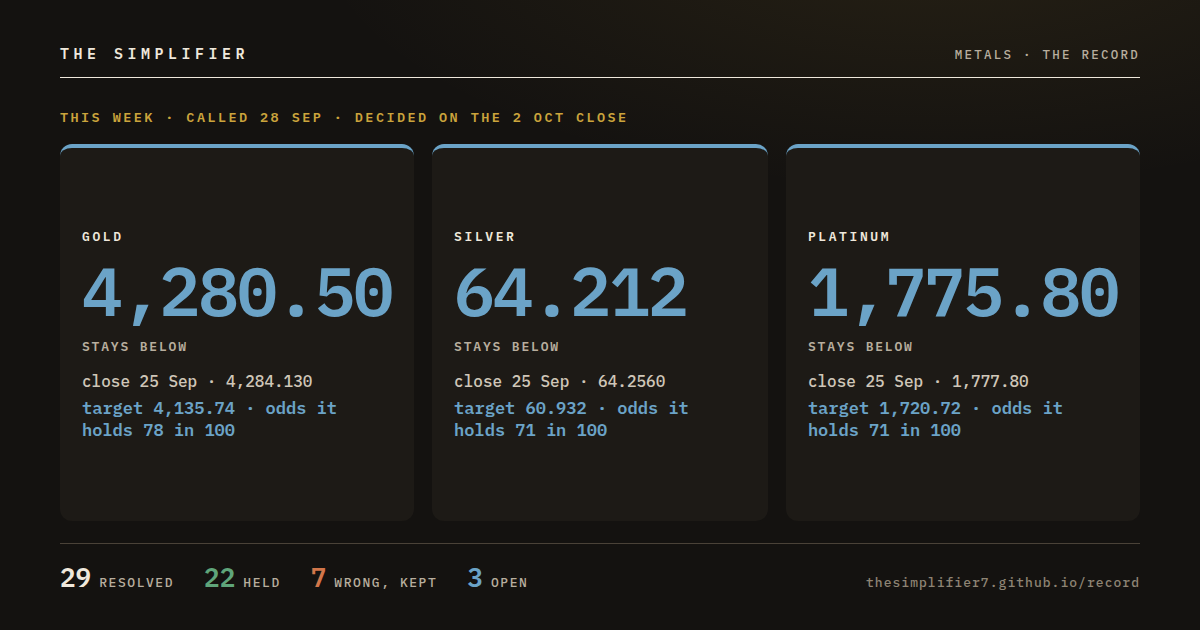
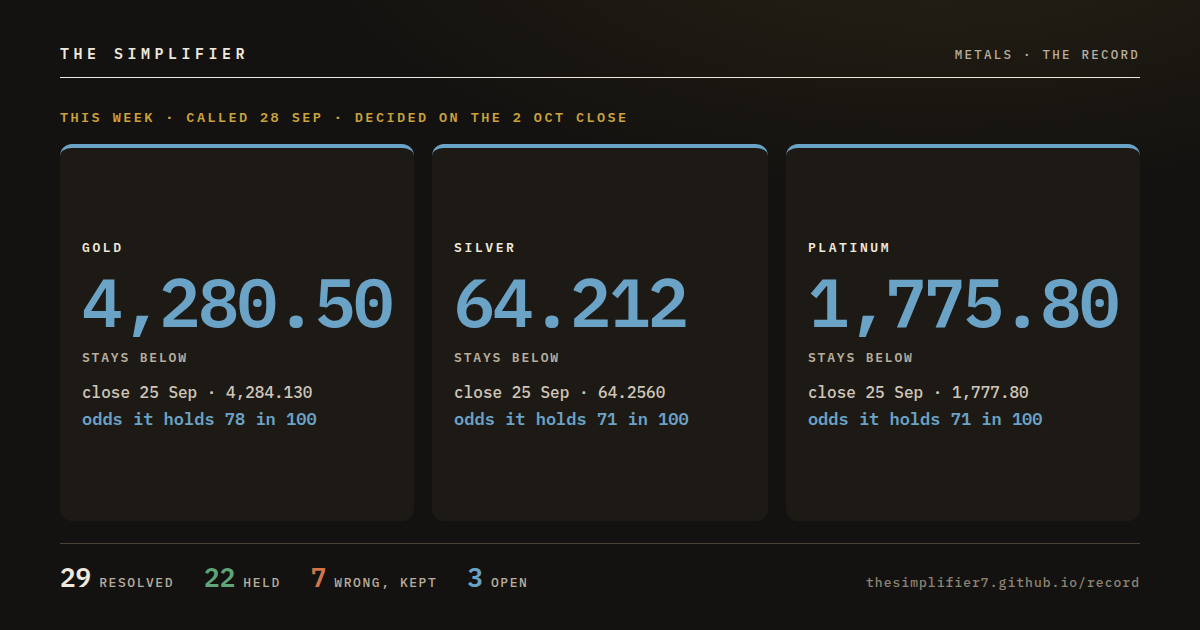
Add files via upload

Changed region(s): [[0.0617, 0.3619, 0.3392, 0.6937], [0.6475, 0.3619, 0.9558, 0.6937], [0.37, 0.3619, 0.5858, 0.6937]]

diff --git a/week_card.html b/week_card.html
@@ -26,8 +26,8 @@ body{background:#141210;background-image:radial-gradient(900px 380px at 78% -12%
 <div class="mast"><b>THE SIMPLIFIER</b><span>Metals · the record</span></div>
 <div class="k">This week · called 28 Sep · decided on the 2 Oct close</div>
 <div class="cols"><div class="c" style="border-top-color:#6BA3C7"><div class="m">Gold</div><div class="lv" style="color:#6BA3C7">4,280.50</div>
-    <div class="l2" style="color:#B8AE9E">stays below</div><div class="l3">close 25 Sep · 4,284.130</div><div class="l4" style="color:#6BA3C7">target 4,135.74 · odds it holds 78 in 100</div></div><div class="c" style="border-top-color:#6BA3C7"><div class="m">Silver</div><div class="lv" style="color:#6BA3C7">64.212</div>
-    <div class="l2" style="color:#B8AE9E">stays below</div><div class="l3">close 25 Sep · 64.2560</div><div class="l4" style="color:#6BA3C7">target 60.932 · odds it holds 71 in 100</div></div><div class="c" style="border-top-color:#6BA3C7"><div class="m">Platinum</div><div class="lv" style="color:#6BA3C7">1,775.80</div>
-    <div class="l2" style="color:#B8AE9E">stays below</div><div class="l3">close 25 Sep · 1,777.80</div><div class="l4" style="color:#6BA3C7">target 1,720.72 · odds it holds 71 in 100</div></div></div>
+    <div class="l2" style="color:#B8AE9E">stays below</div><div class="l3">close 25 Sep · 4,284.130</div><div class="l4" style="color:#6BA3C7">odds it holds 78 in 100</div></div><div class="c" style="border-top-color:#6BA3C7"><div class="m">Silver</div><div class="lv" style="color:#6BA3C7">64.212</div>
+    <div class="l2" style="color:#B8AE9E">stays below</div><div class="l3">close 25 Sep · 64.2560</div><div class="l4" style="color:#6BA3C7">odds it holds 71 in 100</div></div><div class="c" style="border-top-color:#6BA3C7"><div class="m">Platinum</div><div class="lv" style="color:#6BA3C7">1,775.80</div>
+    <div class="l2" style="color:#B8AE9E">stays below</div><div class="l3">close 25 Sep · 1,777.80</div><div class="l4" style="color:#6BA3C7">odds it holds 71 in 100</div></div></div>
 <div class="count"><span><b style="color:#EFE8DC">29</b>resolved</span><span><b style="color:#5FA57A">22</b>held</span><span><b style="color:#D2764A">7</b>wrong, kept</span><span><b style="color:#6BA3C7">3</b>open</span><span class="url">thesimplifier7.github.io/record</span></div>
 </body></html>

diff --git a/make_email.js b/make_email.js
@@ -58,10 +58,10 @@ if (kind === "monday") {
   subject = `The Monday Level · week of ${long(date)}`;
   lede = `${count(set.length, "call", "calls")}, made ${long(date)} and decided on the weekly close of ${long(fri)}. The same calls that go on the record, where they stay whatever the close does.`;  /* WAS: rows, named, graded, rows */
   for (const r of set) {
-    if (r.grammar) blocks.push({ head: `${r.metal.toUpperCase()} · ${r.line || r.level}`, lines: [sideLine(r), `Target ${r.room} · The odds it holds, at the time of the call: ${r.odds} in 100`, `Wrong on ${r.kill}`]  /* WAS: `Room ${r.room} · Odds at naming ${r.odds} in 100`, `Kill: ${r.kill}` */, link: r.url });
+    if (r.grammar) blocks.push({ head: `${r.metal.toUpperCase()} · ${r.line || r.level}`, lines: [sideLine(r), `The odds it holds, at the time of the call: ${r.odds} in 100`, `Wrong on ${r.kill}`]  /* WAS, same night: `Target ${r.room} · The odds it holds, ...` */  /* WAS: `Room ${r.room} · Odds at naming ${r.odds} in 100`, `Kill: ${r.kill}` */, link: r.url });
     else blocks.push({ head: `${r.metal.toUpperCase()} · ${r.level}`, lines: [r.call, `Kill: ${r.kill}`], link: r.url });
   }
-  if (set.some(r => r.grammar)) tail.push("On Friday each call takes one word. HIT, the week closed at or past the target. HELD, on the right side of the line, short of the target. WRONG, a weekly close through the line.");  /* WAS: tail.push("On Friday each row takes one word. HIT, the week closed at or through the room. HELD, on the called side of the line, short of the room. WRONG, through the line."); */
+  if (set.some(r => r.grammar)) tail.push("On Friday each call takes one word. HELD, the week closed on the called side of the line. HIT, it closed beyond the other edge of the week's first 16 hours as well. WRONG, it closed through the line.");  /* WAS, same night: the target wording */  /* WAS: tail.push("On Friday each row takes one word. HIT, the week closed at or through the room. HELD, on the called side of the line, short of the room. WRONG, through the line."); */
 } else {
   const set = rows.filter(r => r.graded_on_close === date).sort(byMetal);
   if (!set.length) { console.error("no row graded on the close of " + date); process.exit(1); }

diff --git a/make_week_card.js b/make_week_card.js
@@ -59,7 +59,8 @@ const cols = rows.map(r => {
   const line2 = mode === "open" ? (r.grammar ? (r.side === "copper" ? "stays below" : "holds above") : (side(r) === "under" ? "holds above" : "stays below")) : (r.hit ? "Hit" : GW[r.grade]);
   const line3 = clTxt ? `close ${fmt(cEntry.date)} · ${esc(clTxt)}` : "";
   /* WAS: `room ${r.room} · odds ${r.odds} in 100` */
-  const line4 = mode === "open" && r.grammar ? `target ${r.room} · odds it holds ${r.odds} in 100`
+  /* WAS, 28 Sep 2026 until the founder found "target" unclear the same night: `target ${r.room} · odds it holds ${r.odds} in 100` */
+  const line4 = mode === "open" && r.grammar ? `odds it holds ${r.odds} in 100`
     : mode === "open" && isFinite(room) ? `${f(room)} ${room >= 0 ? "of room" : "through"}`
     : r.grade === "notest" ? "never reached" : isFinite(room) ? `${room >= 0 ? "+" : "−"}${f(room)} ${room >= 0 ? "clear" : "through"}` : "";
   return `<div class="c" style="border-top-color:${col}"><div class="m">${esc(r.metal)}</div><div class="lv" style="color:${col}">${esc(r.level)}</div>
